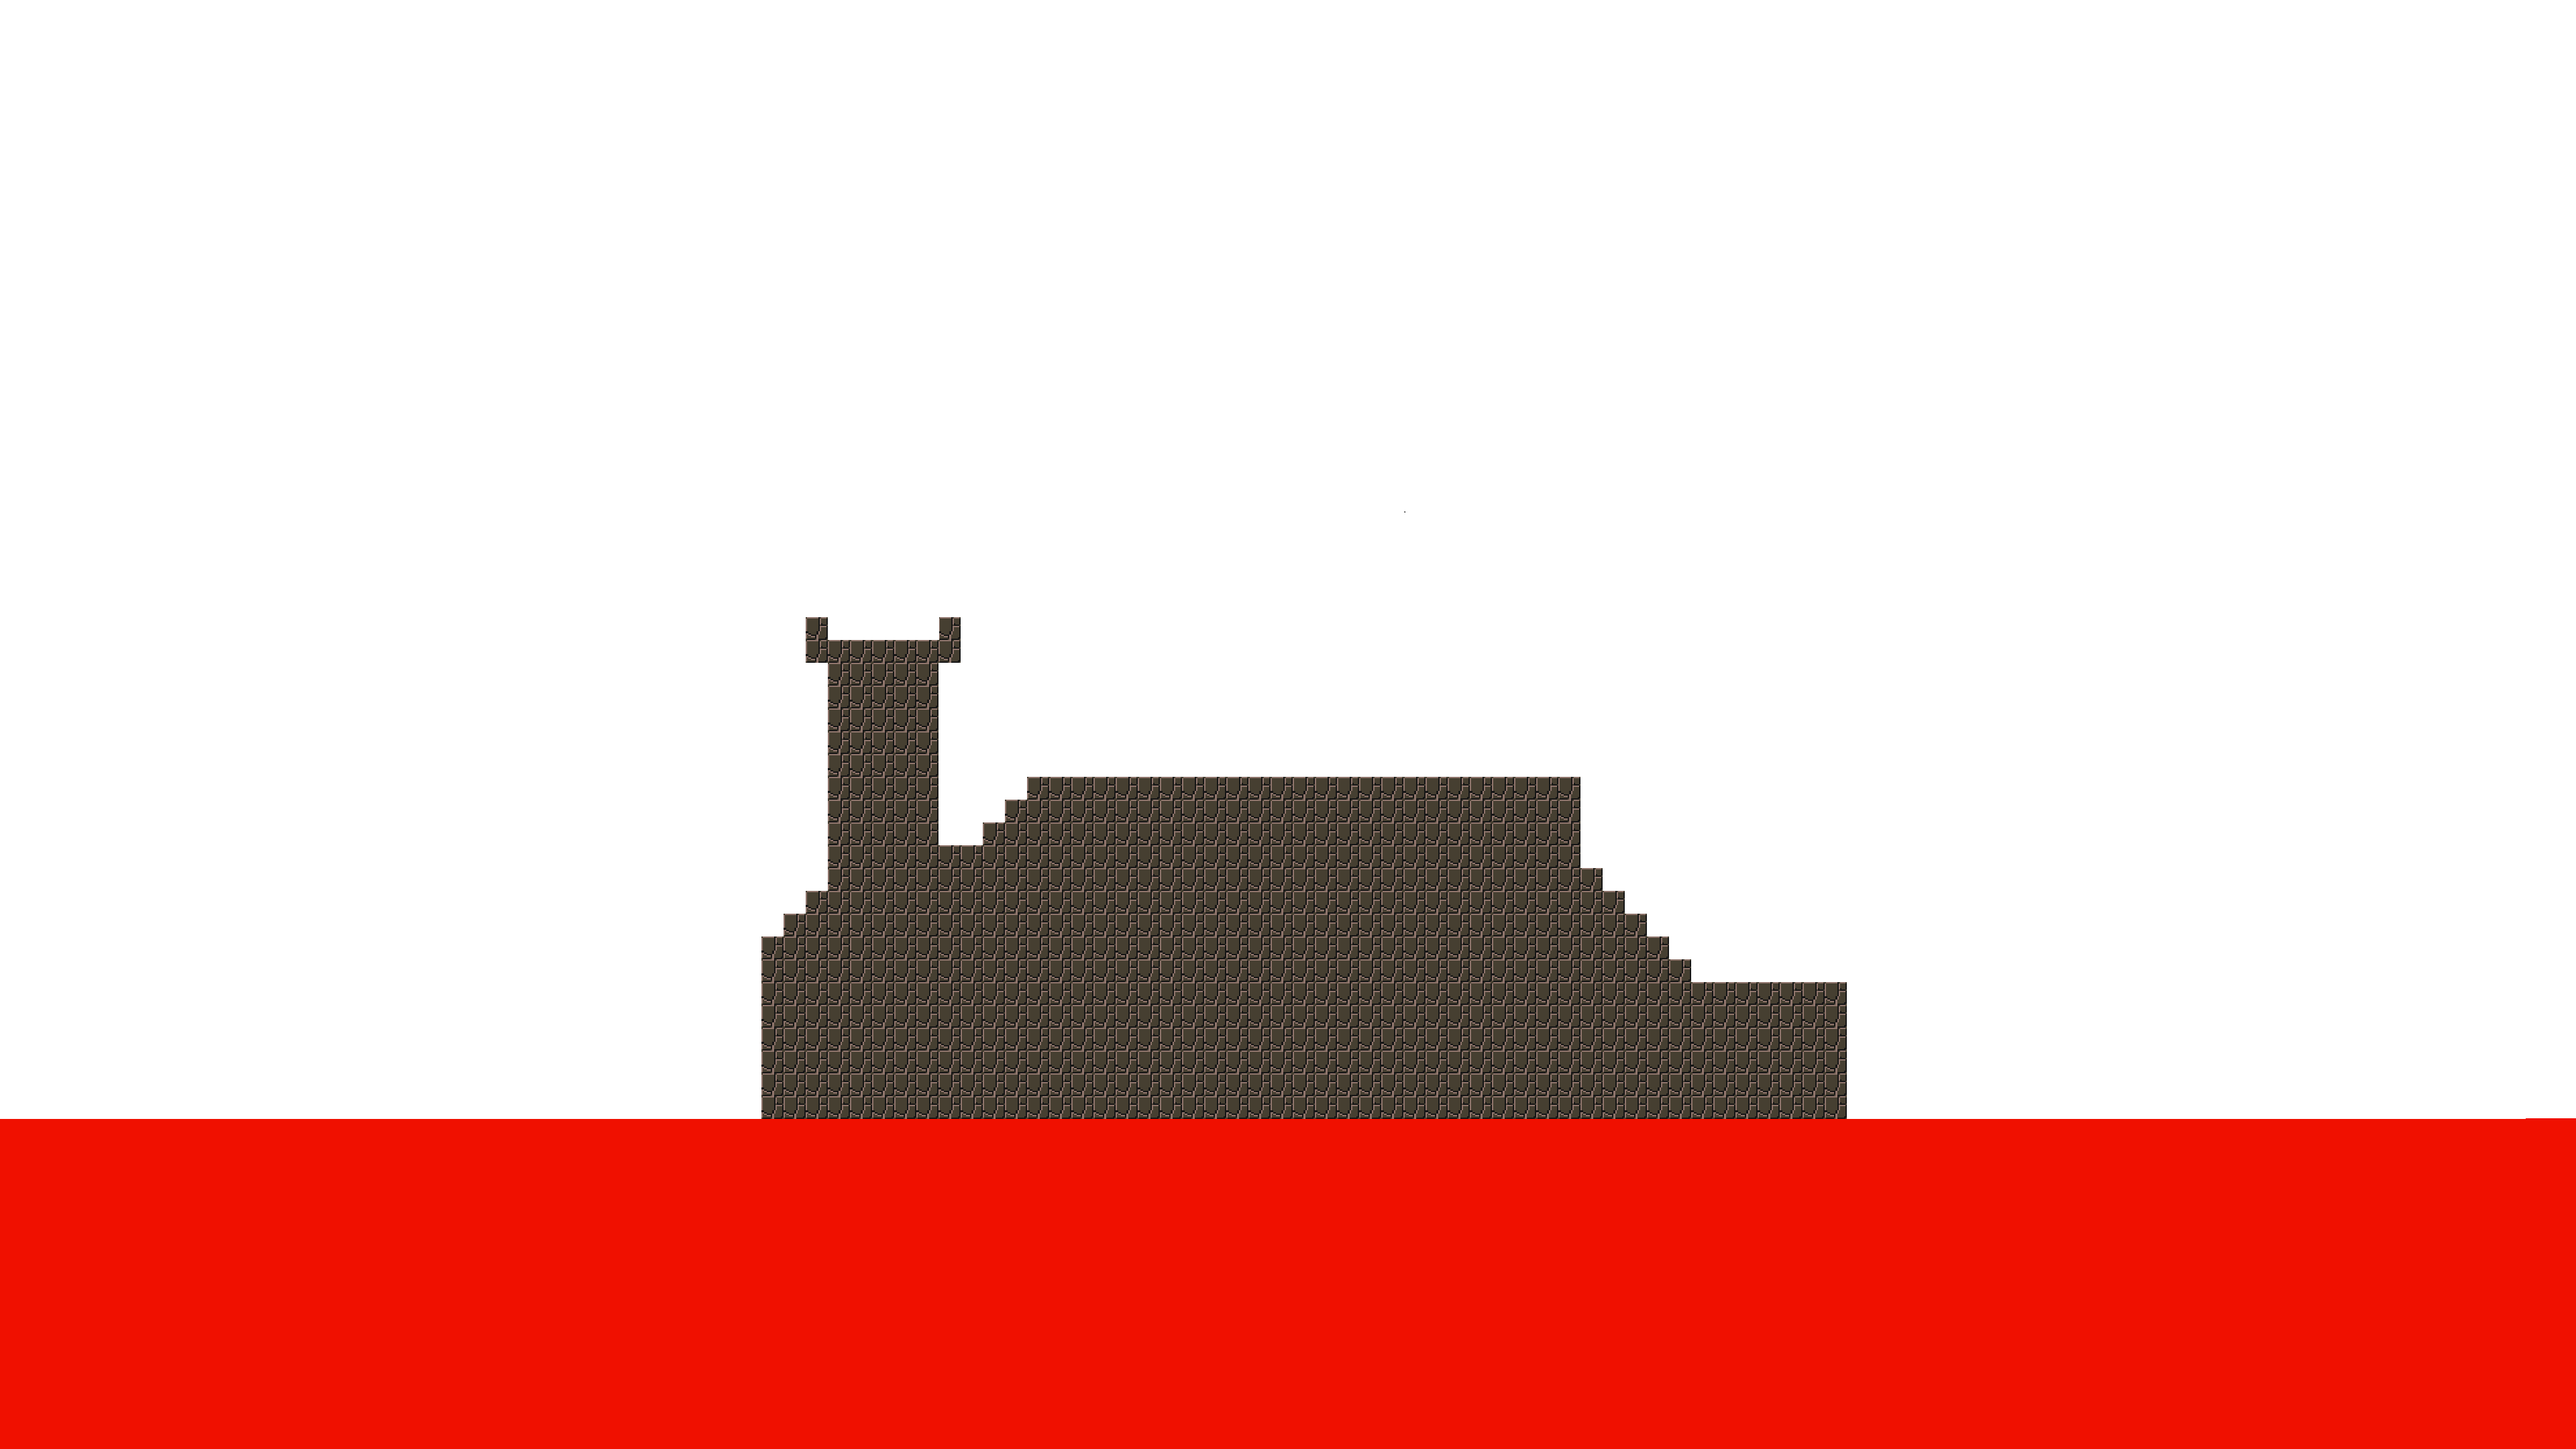
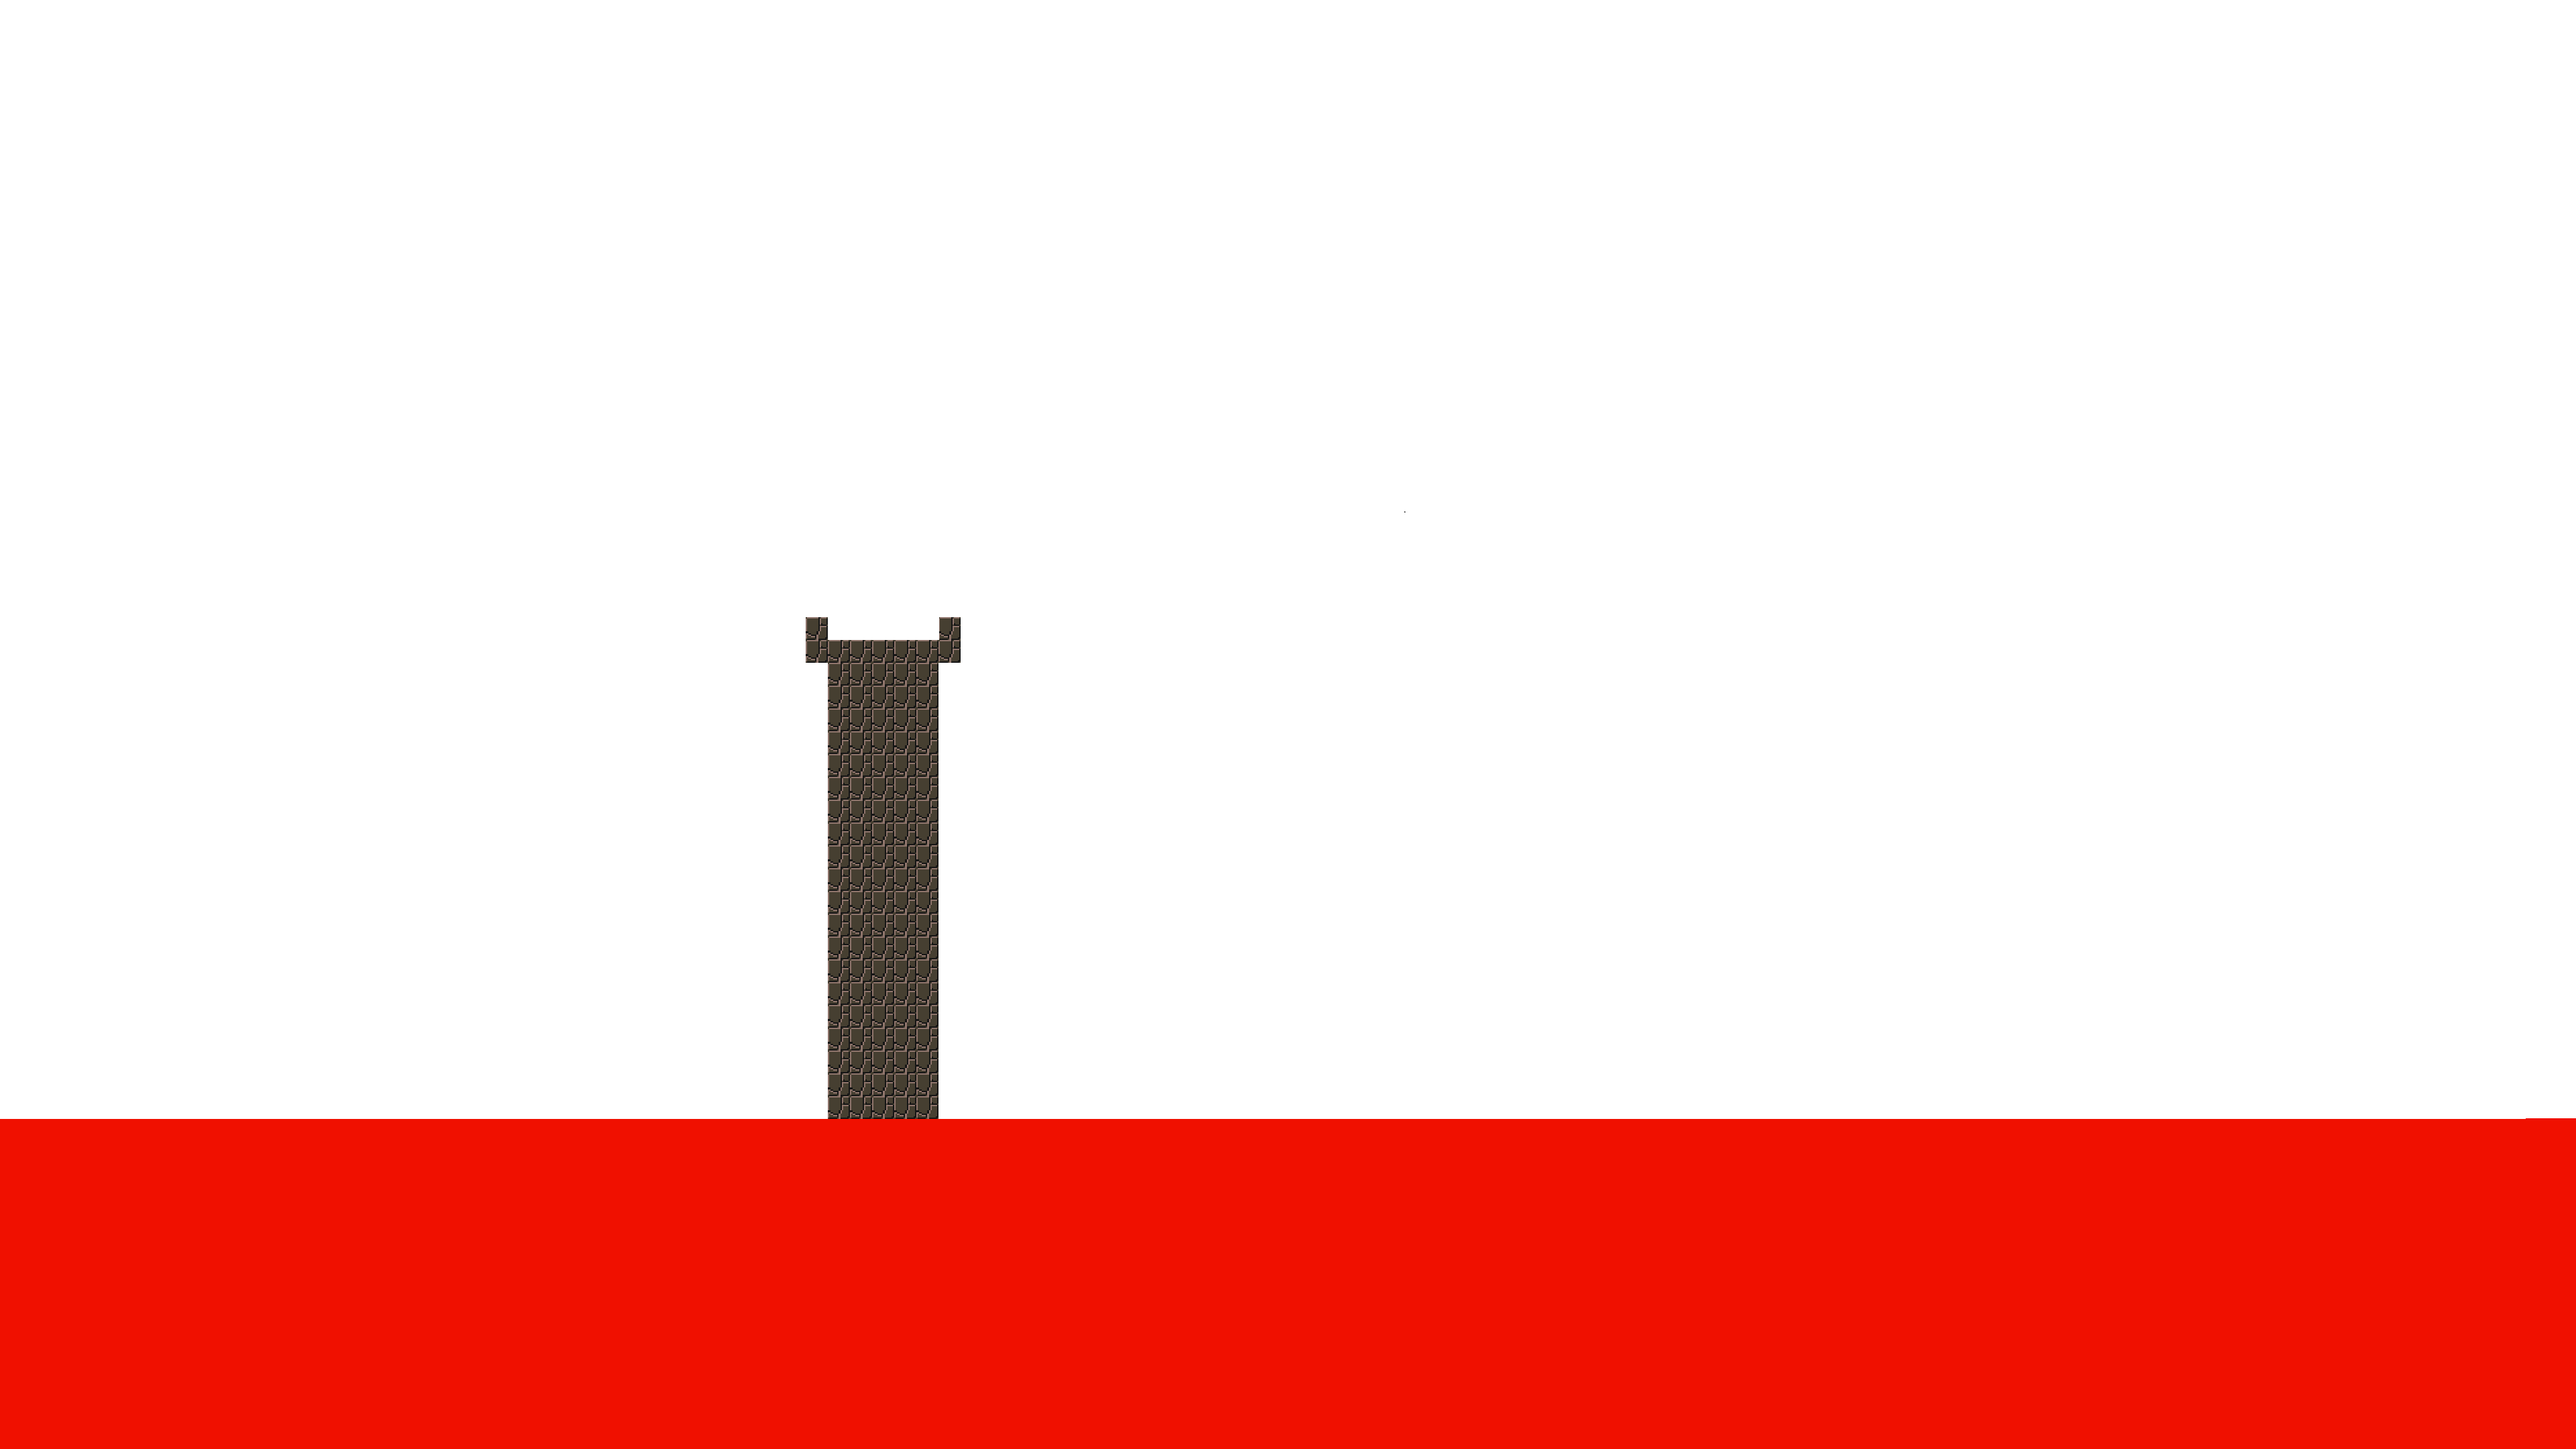
good stuff

Changed region(s): [[0.2812, 0.5273, 0.7188, 0.7755]]

diff --git a/phaser_smashed/src/scenes/create.ts b/phaser_smashed/src/scenes/create.ts
@@ -38,7 +38,8 @@ export function create(game: SmashedGame) {
   createSoundsGame(game);
   createBackground(game);
   createSplashBlack(game);
-  createBackgroundOutlineBack(game);
+  createBackgroundOutlineCastle(game);
+  createBackgroundOutlineLava(game);
   createExplosionBulletBillCannon(game);
   createBulletBill(game);
   createBackgroundOutlineFront(game);
@@ -1329,6 +1330,7 @@ function createLava(i: number, game: SmashedGame, posX: number): void {
   game.lavas[i].sprite.body.allowGravity = false;
   game.lavas[i].sprite.play('lava_moving');
   game.lavas[i].sprite.setOrigin(0, 0);
+  game.lavas[i].sprite.setDepth(1);
 }
 
 function createPlayers(game: SmashedGame): void {
@@ -1812,19 +1814,39 @@ function createBackgroundOutlineFront(game: SmashedGame): void {
   game.BACKGROUND_OUTLINE_FRONT.setDepth(1);
 }
 
-function createBackgroundOutlineBack(game: SmashedGame): void {
-  game.BACKGROUND_OUTLINE_BACK = game.physics.add.sprite(
+function createBackgroundOutlineCastle(game: SmashedGame): void {
+  game.BACKGROUND_OUTLINE_CASTLE = game.physics.add.sprite(
     SCREEN_DIMENSIONS.WIDTH / 2,
     SCREEN_DIMENSIONS.HEIGHT / 2,
-    'background_outline_back'
+    'background_outline_castle'
   );
-  game.BACKGROUND_OUTLINE_BACK.setScale(
+  game.BACKGROUND_OUTLINE_CASTLE.setScale(
     game.SCREEN_SCALE.WIDTH,
     game.SCREEN_SCALE.HEIGHT
   );
   // game.BACKGROUND_OUTLINE.setOrigin(0.5, 0.5);
-  game.BACKGROUND_OUTLINE_BACK.setImmovable(true);
-  game.BACKGROUND_OUTLINE_BACK.body.allowGravity = false;
+  game.BACKGROUND_OUTLINE_CASTLE.setImmovable(true);
+  game.BACKGROUND_OUTLINE_CASTLE.body.allowGravity = false;
+
+  // game.BACKGROUND_OUTLINE_BACK.setAlpha(0.5);
+}
+function createBackgroundOutlineLava(game: SmashedGame): void {
+  game.BACKGROUND_OUTLINE_LAVA = game.physics.add.sprite(
+    SCREEN_DIMENSIONS.WIDTH / 2,
+    SCREEN_DIMENSIONS.HEIGHT / 2,
+    'background_outline_lava'
+  );
+  game.BACKGROUND_OUTLINE_LAVA.setScale(
+    game.SCREEN_SCALE.WIDTH,
+    game.SCREEN_SCALE.HEIGHT
+  );
+  // game.BACKGROUND_OUTLINE.setOrigin(0.5, 0.5);
+  game.BACKGROUND_OUTLINE_LAVA.setImmovable(true);
+  game.BACKGROUND_OUTLINE_LAVA.body.allowGravity = false;
+
+  game.BACKGROUND_OUTLINE_LAVA.setDepth(1);
+
+  // game.BACKGROUND_OUTLINE_BACK.setAlpha(0.5);
 }
 
 function createTable(game: SmashedGame): void {
@@ -1967,6 +1989,8 @@ function createScoreboardShotGlass(game: SmashedGame): void {
         'cup' + (i + 1).toString()
       )
       .setOrigin(0.5, 0.5);
+
+    endCup.sprite.setDepth(1);
   });
 
   game.players.forEach((player, playerIndex) => {
@@ -1988,6 +2012,8 @@ function createScoreboardShotGlass(game: SmashedGame): void {
       0xffffff,
       game.colorCircles[playerIndex].colorNumber
     );
+
+    player.shotGlassImage.setDepth(1);
   });
 }
 
@@ -2022,6 +2048,8 @@ function createScoreboardShotGlassNumber(game: SmashedGame): void {
       )
       .setOrigin(0.5, 0.5)
       .setAlpha(1);
+
+    player.shotGlassNumber.setDepth(1);
   });
 }
 
@@ -2056,6 +2084,8 @@ function createScoreboardReady(game: SmashedGame): void {
         }
       )
       .setOrigin(0.5, 0.5);
+
+    player.scoreBoardReady.setDepth(1);
   });
 }
 
@@ -2085,6 +2115,8 @@ function createScoreboardController(game: SmashedGame): void {
         },
       })
       .setOrigin(0.5, 0.5);
+
+    player.scoreBoardController.setDepth(1);
   });
 }
 
@@ -2146,6 +2178,9 @@ function createScoreboard(game: SmashedGame): void {
   game.scoreBoardTimeGame.setAlpha(1);
   game.scoreBoardTimeTime.setAlpha(1);
 
+  game.scoreBoardTimeGame.setDepth(1);
+  game.scoreBoardTimeTime.setDepth(1);
+
   game.players.forEach((player, playerIndex) => {
     player.scoreBoardUpper = game.add
       .text(
@@ -2176,6 +2211,8 @@ function createScoreboard(game: SmashedGame): void {
       )
       .setOrigin(0.5, 0)
       .setScale(1 / game.cameras.main.zoom, 1 / game.cameras.main.zoom);
+
+    player.scoreBoardUpper.setDepth(1);
   });
 
   game.players.forEach((player, playerIndex) => {
@@ -2207,6 +2244,8 @@ function createScoreboard(game: SmashedGame): void {
       )
       .setOrigin(0.5, 1)
       .setScale(1 / game.cameras.main.zoom, 1 / game.cameras.main.zoom);
+
+    player.scoreBoardLower.setDepth(1);
   });
 }
 

diff --git a/phaser_smashed/src/scenes/SmashedGame.ts b/phaser_smashed/src/scenes/SmashedGame.ts
@@ -74,7 +74,8 @@ export default class SmashedGame extends Phaser.Scene {
   PLATFORMS: any | Phaser.GameObjects.Sprite;
   BACKGROUND: any | Phaser.GameObjects.Sprite;
   BACKGROUND_OUTLINE_FRONT: any | Phaser.GameObjects.Sprite;
-  BACKGROUND_OUTLINE_BACK: any | Phaser.GameObjects.Sprite;
+  BACKGROUND_OUTLINE_CASTLE: any | Phaser.GameObjects.Sprite;
+  BACKGROUND_OUTLINE_LAVA: any | Phaser.GameObjects.Sprite;
   TABLE: any | Phaser.GameObjects.Sprite;
   table_health_give: number = 1;
   powerupActive: boolean = false;
@@ -605,48 +606,6 @@ export default class SmashedGame extends Phaser.Scene {
       start: Phaser.Input.Keyboard.KeyCodes.NUMPAD_NINE,
       select: Phaser.Input.Keyboard.KeyCodes.NUMPAD_EIGHT,
     },
-    // {
-    //   up: Phaser.Input.Keyboard.KeyCodes.UP,
-    //   down: Phaser.Input.Keyboard.KeyCodes.DOWN,
-    //   left: Phaser.Input.Keyboard.KeyCodes.LEFT,
-    //   right: Phaser.Input.Keyboard.KeyCodes.RIGHT,
-    //   A: Phaser.Input.Keyboard.KeyCodes.NUMPAD_ONE,
-    //   B: Phaser.Input.Keyboard.KeyCodes.NUMPAD_THREE,
-    //   X: Phaser.Input.Keyboard.KeyCodes.NUMPAD_TWO,
-    //   Y: Phaser.Input.Keyboard.KeyCodes.NUMPAD_ZERO,
-    //   L: Phaser.Input.Keyboard.KeyCodes.NUMPAD_FIVE,
-    //   R: Phaser.Input.Keyboard.KeyCodes.NUMPAD_SIX,
-    // },
-    // {
-    //   up: Phaser.Input.Keyboard.KeyCodes.T,
-    //   down: Phaser.Input.Keyboard.KeyCodes.G,
-    //   left: Phaser.Input.Keyboard.KeyCodes.F,
-    //   right: Phaser.Input.Keyboard.KeyCodes.H,
-    //   A: Phaser.Input.Keyboard.KeyCodes.V,
-    //   B: Phaser.Input.Keyboard.KeyCodes.B,
-    //   X: Phaser.Input.Keyboard.KeyCodes.B,
-    //   Y: Phaser.Input.Keyboard.KeyCodes.B,
-    // },
-    // {
-    //   up: Phaser.Input.Keyboard.KeyCodes.I,
-    //   down: Phaser.Input.Keyboard.KeyCodes.K,
-    //   left: Phaser.Input.Keyboard.KeyCodes.J,
-    //   right: Phaser.Input.Keyboard.KeyCodes.L,
-    //   A: Phaser.Input.Keyboard.KeyCodes.O,
-    //   B: Phaser.Input.Keyboard.KeyCodes.P,
-    //   X: Phaser.Input.Keyboard.KeyCodes.P,
-    //   Y: Phaser.Input.Keyboard.KeyCodes.P,
-    // },
-    // {
-    //   up: Phaser.Input.Keyboard.KeyCodes.UP,
-    //   down: Phaser.Input.Keyboard.KeyCodes.DOWN,
-    //   left: Phaser.Input.Keyboard.KeyCodes.LEFT,
-    //   right: Phaser.Input.Keyboard.KeyCodes.RIGHT,
-    //   A: Phaser.Input.Keyboard.KeyCodes.END,
-    //   B: Phaser.Input.Keyboard.KeyCodes.PAGE_DOWN,
-    //   X: Phaser.Input.Keyboard.KeyCodes.PAGE_DOWN,
-    //   Y: Phaser.Input.Keyboard.KeyCodes.PAGE_DOWN,
-    // },
   ];
 
   pit = {
@@ -917,7 +876,7 @@ export default class SmashedGame extends Phaser.Scene {
     { x: SCREEN_DIMENSIONS.WIDTH * 0.42, y: SCREEN_DIMENSIONS.HEIGHT * 0.95 },
 
     { x: SCREEN_DIMENSIONS.WIDTH * 0.15, y: SCREEN_DIMENSIONS.HEIGHT * 0.95 },
-    
+
     // { x: SCREEN_DIMENSIONS.WIDTH * 0.1, y: SCREEN_DIMENSIONS.HEIGHT * 0.95 },
 
     { x: SCREEN_DIMENSIONS.WIDTH * 0.03, y: SCREEN_DIMENSIONS.HEIGHT * 0.95 },

diff --git a/phaser_smashed/src/scenes/preload.ts b/phaser_smashed/src/scenes/preload.ts
@@ -216,6 +216,14 @@ export function preload(game: SmashedGame): void {
     'background_outline_back',
     'images/outline_blocks_11_back.png'
   );
+  game.load.image(
+    'background_outline_castle',
+    'images/outline_blocks_11_castle.png'
+  );
+  game.load.image(
+    'background_outline_lava',
+    'images/outline_blocks_11_lava.png'
+  );
   game.load.image('centerWhite', 'images/wx.png');
   game.load.image('centerBlack', 'images/bx.png');
   game.load.image('centerMagenta', 'images/mx.png');

diff --git a/phaser_smashed/src/debugInit.ts b/phaser_smashed/src/debugInit.ts
@@ -56,7 +56,7 @@ export const debugInit: Debug = {
   Allow_BlackChez: false,
 
   Allow_SlowMo: true,
-  Chomp_Explosion: false,
+  Chomp_Explosion: true,
   Chomp_Velocities: false,
   Char_Override: false,
   Char_Override_ID: 0,
